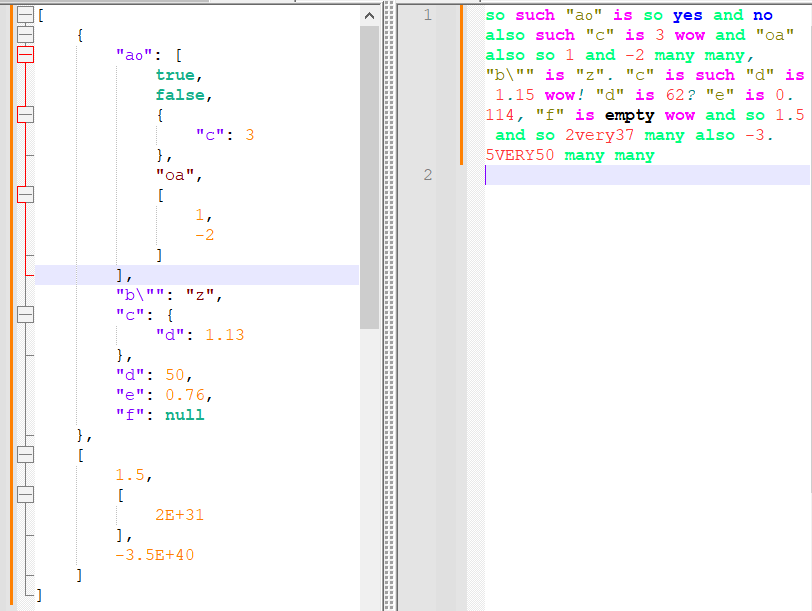
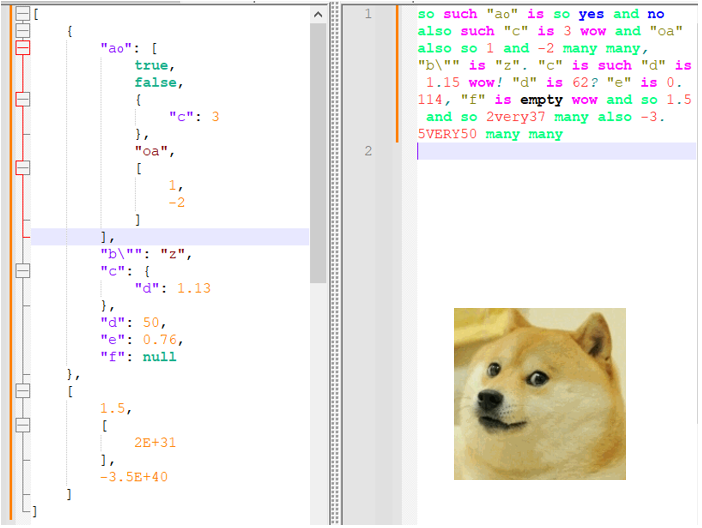
such "DSON" is "hidden"! "user" is "huh?" wow

diff --git a/JsonToolsNppPlugin/Forms/AboutForm.cs b/JsonToolsNppPlugin/Forms/AboutForm.cs
@@ -1,9 +1,10 @@
 using System;
 using System.Diagnostics;
-using System.Reflection;
+using System.IO;
 using System.Windows.Forms;
+using JSON_Tools.JSON_Tools;
 using JSON_Tools.Utils;
-using Kbg.NppPluginNET.PluginInfrastructure;
+using Kbg.NppPluginNET;
 
 namespace JSON_Tools.Forms
 {
@@ -15,6 +16,9 @@ namespace JSON_Tools.Forms
             Title.Text = Title.Text.Replace("X.Y.Z.A", Npp.AssemblyVersionString());
         }
 
+        /// <summary>
+        /// open GitHub repo with the web browser
+        /// </summary>
         private void GitHubLink_LinkClicked(object sender, LinkLabelLinkClickedEventArgs e)
         {
             string help_url = "https://github.com/molsonkiko/JsonToolsNppPlugin";
@@ -36,14 +40,82 @@ namespace JSON_Tools.Forms
             }
         }
 
+        /// <summary>
+        /// sneakily conceal the DSON easter egg where only the most curious users will find it
+        /// </summary>
+        private void ThanksWowLink_LinkClicked(object sender, LinkLabelLinkClickedEventArgs e)
+        {
+            Dogeify();
+        }
+
+        /// <summary>
+        /// Escape key exits the form.<br></br>
+        /// Also, an alternate way to access the DSON emitter:<br></br>
+        /// hit the W key (for "wow") or the S key (for "such") while the About form is open
+        /// </summary>
         protected override bool ProcessDialogKey(Keys keyData)
         {
+            if (keyData == Keys.W || keyData == Keys.S)
+            {
+                Dogeify();
+                this.Close();
+                return true;
+            }
             if (ModifierKeys == Keys.None && keyData == Keys.Escape)
             {
                 this.Close();
                 return true;
             }
             return base.ProcessDialogKey(keyData);
+        }
+
+        /// <summary>
+        /// Open a new DSON document containing the dogeified version of the current JSON.<br></br>
+        /// Also copies the DSON UDL from the plugins directory into the UDL folder in AppData,
+        /// so the user can start seeing DSON styling as soon as they restart.
+        /// </summary>
+        static void Dogeify()
+        {
+            JNode json = Main.TryParseJson();
+            if (json == null) return;
+            int[] majorMinorVersion = Npp.notepad.GetNppVersion();
+            if (majorMinorVersion[0] >= 8)
+            {
+                DirectoryInfo userDefinedLangPath = new DirectoryInfo(Path.Combine(
+                    Environment.GetFolderPath(Environment.SpecialFolder.ApplicationData),
+                    "Notepad++",
+                    "userDefineLangs"));
+                if (userDefinedLangPath.Exists)
+                {
+                    FileInfo dsonUDLPath = new FileInfo(Path.Combine(
+                        Npp.notepad.GetNppPath(),
+                        "plugins",
+                        "JsonTools",
+                        "DSON UDL.xml"
+                    ));
+                    string targetPath = Path.Combine(userDefinedLangPath.FullName, "dson.xml");
+                    if (dsonUDLPath.Exists && !File.Exists(targetPath))
+                    {
+                        dsonUDLPath.CopyTo(targetPath);
+                    }
+                }
+            }
+            // add the UDL file to the userDefinedLangs folder so that it can colorize the new file
+            try
+            {
+                string dson = Dson.Dump(json);
+                Npp.notepad.FileNew();
+                Npp.editor.SetText(dson);
+                Npp.editor.AppendText(2, "\r\n");
+                string newName = Npp.notepad.GetCurrentFilePath() + ".dson";
+                Npp.notepad.SetCurrentBufferInternalName(newName);
+            }
+            catch (Exception ex)
+            {
+                MessageBox.Show($"Could not convert JSON to DSON. Got exception:\r\n{ex.ToString()}",
+                    "such error very sad",
+                    MessageBoxButtons.OK, MessageBoxIcon.Error);
+            }
         }
     }
 }

diff --git a/JsonToolsNppPlugin/Forms/AboutForm.Designer.cs b/JsonToolsNppPlugin/Forms/AboutForm.Designer.cs
@@ -31,9 +31,9 @@
             System.ComponentModel.ComponentResourceManager resources = new System.ComponentModel.ComponentResourceManager(typeof(AboutForm));
             this.Title = new System.Windows.Forms.Label();
             this.GitHubLink = new System.Windows.Forms.LinkLabel();
-            this.Thanks = new System.Windows.Forms.Label();
             this.Description = new System.Windows.Forms.Label();
             this.DebugInfoLabel = new System.Windows.Forms.Label();
+            this.Thanks = new System.Windows.Forms.LinkLabel();
             this.SuspendLayout();
             // 
             // Title
@@ -60,17 +60,6 @@
             this.GitHubLink.UseCompatibleTextRendering = true;
             this.GitHubLink.LinkClicked += new System.Windows.Forms.LinkLabelLinkClickedEventHandler(this.GitHubLink_LinkClicked);
             // 
-            // Thanks
-            // 
-            this.Thanks.AutoSize = true;
-            this.Thanks.Location = new System.Drawing.Point(28, 259);
-            this.Thanks.Name = "Thanks";
-            this.Thanks.Size = new System.Drawing.Size(328, 80);
-            this.Thanks.TabIndex = 2;
-            this.Thanks.Text = "Special thanks to:\r\n* Don Ho for making Notepad++\r\n* kbilsted for making the plug" +
-    "in pack this is based on\r\n* And of course everyone who helped make this plugin\r\n" +
-    "   better!";
-            // 
             // Description
             // 
             this.Description.AutoSize = true;
@@ -91,14 +80,28 @@
             this.DebugInfoLabel.Text = "For info about your Notepad++ installation,\r\ngo to ? -> Debug Info on the main st" +
     "atus bar.";
             // 
+            // Thanks
+            // 
+            this.Thanks.AutoSize = true;
+            this.Thanks.LinkArea = new System.Windows.Forms.LinkArea(228, 234);
+            this.Thanks.LinkColor = System.Drawing.Color.Black;
+            this.Thanks.Location = new System.Drawing.Point(28, 255);
+            this.Thanks.Name = "Thanks";
+            this.Thanks.Size = new System.Drawing.Size(336, 108);
+            this.Thanks.TabIndex = 5;
+            this.Thanks.TabStop = true;
+            this.Thanks.Text = resources.GetString("Thanks.Text");
+            this.Thanks.UseCompatibleTextRendering = true;
+            this.Thanks.LinkClicked += new System.Windows.Forms.LinkLabelLinkClickedEventHandler(this.ThanksWowLink_LinkClicked);
+            // 
             // AboutForm
             // 
             this.AutoScaleDimensions = new System.Drawing.SizeF(8F, 16F);
             this.AutoScaleMode = System.Windows.Forms.AutoScaleMode.Font;
-            this.ClientSize = new System.Drawing.Size(399, 358);
+            this.ClientSize = new System.Drawing.Size(399, 389);
+            this.Controls.Add(this.Thanks);
             this.Controls.Add(this.DebugInfoLabel);
             this.Controls.Add(this.Description);
-            this.Controls.Add(this.Thanks);
             this.Controls.Add(this.GitHubLink);
             this.Controls.Add(this.Title);
             this.Icon = ((System.Drawing.Icon)(resources.GetObject("$this.Icon")));
@@ -113,8 +116,8 @@
 
         private System.Windows.Forms.Label Title;
         private System.Windows.Forms.LinkLabel GitHubLink;
-        private System.Windows.Forms.Label Thanks;
         private System.Windows.Forms.Label Description;
         private System.Windows.Forms.Label DebugInfoLabel;
+        private System.Windows.Forms.LinkLabel Thanks;
     }
 }

diff --git a/JsonToolsNppPlugin/Main.cs b/JsonToolsNppPlugin/Main.cs
@@ -88,7 +88,6 @@ namespace Kbg.NppPluginNET
             PluginBase.SetCommand(15, "JSON to &YAML", DumpYaml);
             PluginBase.SetCommand(16, "Run &tests", async () => await TestRunner.RunAll());
             PluginBase.SetCommand(17, "A&bout", ShowAboutForm); AboutFormId = 17;
-            PluginBase.SetCommand(18, "&Wow such doge", Dogeify);
 
             //// read schemas_to_fname_patterns.json in config directory (if it exists)
             //string config_dir = Npp.notepad.GetConfigDirectory();
@@ -780,50 +779,6 @@ namespace Kbg.NppPluginNET
             AboutForm aboutForm = new AboutForm();
             aboutForm.ShowDialog();
             aboutForm.Focus();
-        }
-
-        static void Dogeify()
-        {
-            JNode json = TryParseJson();
-            if (json == null) return;
-            int[] majorMinorVersion = Npp.notepad.GetNppVersion();
-            if (majorMinorVersion[0] >= 8)
-            {
-                DirectoryInfo userDefinedLangPath = new DirectoryInfo(Path.Combine(
-                    Environment.GetFolderPath(Environment.SpecialFolder.ApplicationData),
-                    "Notepad++",
-                    "userDefineLangs"));
-                if (userDefinedLangPath.Exists)
-                {
-                    FileInfo dsonUDLPath = new FileInfo(Path.Combine(
-                        Npp.notepad.GetNppPath(),
-                        "plugins",
-                        "JsonTools",
-                        "DSON UDL.xml"
-                    ));
-                    string targetPath = Path.Combine(userDefinedLangPath.FullName, "dson.xml");
-                    if (dsonUDLPath.Exists && !File.Exists(targetPath))
-                    {
-                        dsonUDLPath.CopyTo(targetPath);
-                    }
-                }
-            }
-            // add the UDL file to the userDefinedLangs folder so that it can colorize the new file
-            try
-            {
-                string dson = Dson.Dump(json);
-                Npp.notepad.FileNew();
-                Npp.editor.SetText(dson);
-                Npp.editor.AppendText(2, "\r\n");
-                string newName = Npp.notepad.GetCurrentFilePath() + ".dson";
-                Npp.notepad.SetCurrentBufferInternalName(newName);
-            }
-            catch (Exception ex)
-            {
-                MessageBox.Show($"Could not convert JSON to DSON. Got exception:\r\n{ex.ToString()}",
-                    "such error very sad",
-                    MessageBoxButtons.OK, MessageBoxIcon.Error);
-            }
         }
 
         //static void MapSchemasToFnamePatterns()

diff --git a/JsonToolsNppPlugin/Properties/AssemblyInfo.cs b/JsonToolsNppPlugin/Properties/AssemblyInfo.cs
@@ -29,5 +29,5 @@ using System.Runtime.InteropServices;
 //      Build Number
 //      Revision
 //
-[assembly: AssemblyVersion("4.10.1.1")]
-[assembly: AssemblyFileVersion("4.10.1.1")]
+[assembly: AssemblyVersion("4.10.1.2")]
+[assembly: AssemblyFileVersion("4.10.1.2")]

diff --git a/docs/README.md b/docs/README.md
@@ -452,6 +452,8 @@ This JSON schema generator only produces schemas with the following keywords:
 
 JSON is not sufficiently [Doge-friendly](https://dogeon.xyz/index.html). This plugin aims to help correct that.
 
-Currently the plugin only has a DSON emitter. Later I will add a DSON parser.
+Currently the plugin only has a DSON emitter. Later I may add a DSON parser.
 
 ![DSON example](/docs/DSON%20example.PNG)
+
+Where is DSON generator? Don't know. Not on main plugin menu. So scared. Very confuse. 🐕🤷

diff --git a/CHANGELOG.md b/CHANGELOG.md
@@ -37,6 +37,10 @@ and this project adheres to [Semantic Versioning](http://semver.org/).
 
 1. Removed auto-installation of DSON UDL for Notepad++ older than `8.0`, because the UDL doesn't work anyway and the installation process causes an error message.
 
+### Changed
+
+1. [DSON](/docs/README.md#dson) is now sneakily hidden!
+
 ## [4.10.1] - 2023-03-02
 
 ### Fixed
